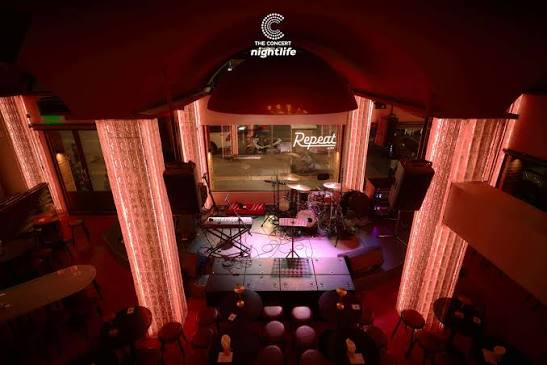
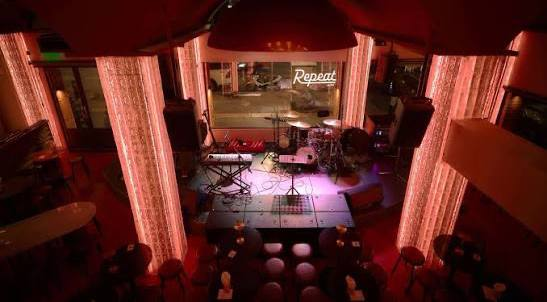
update repeat

diff --git a/upgrade.js b/upgrade.js
@@ -1472,10 +1472,7 @@ App.cnkMoveMonth = function (n) {
                 onclick="App.closeModal()">แสดงผลลัพธ์</button>
             </div>
 
-            <p class="hint">
-              ราคาและคะแนนเป็นข้อมูลที่รวบรวมไว้
-              ไม่ใช่ข้อมูลสดของร้าน
-            </p>
+            
           </div>
         </div>
       `;
